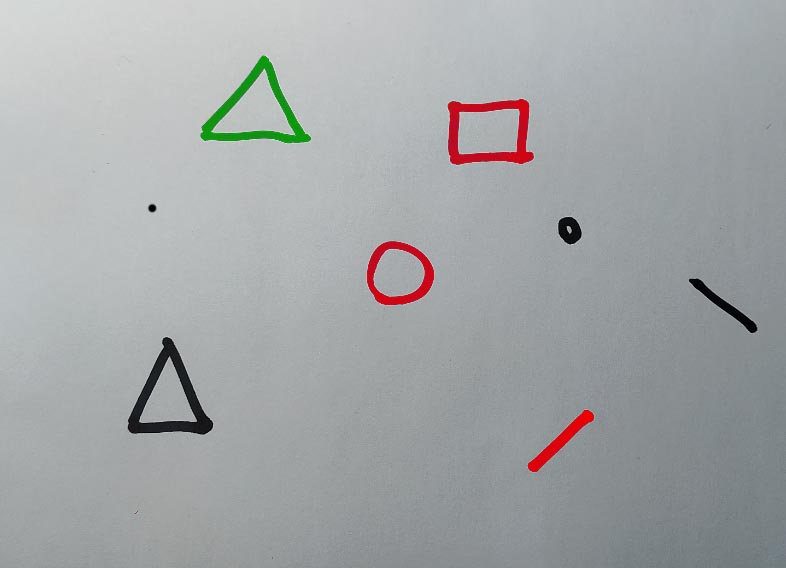
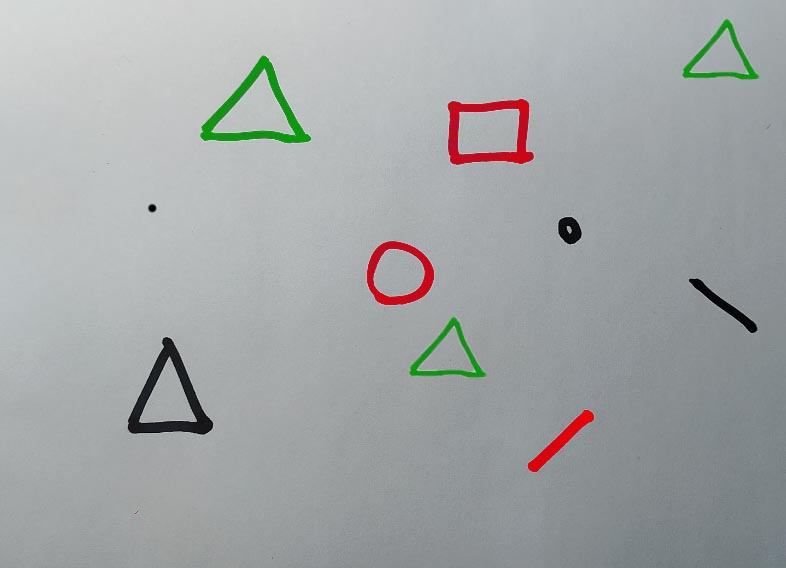
grid detection, sound playback

Changed region(s): [[0.855, 0.0299, 0.9771, 0.1496], [0.5191, 0.5687, 0.6107, 0.6884]]

diff --git a/imageProcessing.py b/imageProcessing.py
@@ -1,0 +1,103 @@
+import numpy as np
+import cv2
+from shapeDetector import Shape
+from shapeDetector import ShapeType
+import winsound
+
+class ImageProcessing:
+               
+
+    def __init__(self, xSegments = 6):
+
+        self.xSegments = xSegments
+        self.currentSegment = 0
+        self.currentX = 0        
+
+    def processImage(self, image):
+        self.image = np.copy(image)        
+        self.width = self.image.shape[:2][1]
+        self.height = self.image.shape[:2][0]
+
+        self.shapes = []
+
+        kernel = cv2.getStructuringElement(cv2.MORPH_RECT,(3,3))
+        grayscaleImage = cv2.bitwise_not(cv2.cvtColor(image, cv2.COLOR_BGR2GRAY))
+        _, self.thresholdImage = cv2.threshold(grayscaleImage, 150, 255, cv2.THRESH_BINARY)
+        self.thresholdImage = cv2.morphologyEx(self.thresholdImage,cv2.MORPH_CLOSE, kernel)
+
+        self.addDetectedShapes(self.thresholdImage)
+        self.detectGrid()
+
+
+    def addDetectedShapes(self, processedImage):
+        contours, _ = cv2.findContours(processedImage, cv2.RETR_EXTERNAL, cv2.CHAIN_APPROX_SIMPLE)        
+        for cnt in contours:
+            self.shapes.append(Shape(cnt))
+
+    def detectGrid(self):
+        bottomRight = (0,0)
+        topLeft = (self.width-1, self.height-1)
+
+        for shape in self.shapes:
+            if shape.shapeType == ShapeType.TRIANGLE:                
+                if(shape.x < topLeft[0]):
+                    topLeft = (shape.x, topLeft[1])
+                
+                if(shape.y < topLeft[1]):
+                    topLeft = (topLeft[0], shape.y)
+
+                if(shape.x > bottomRight[0]):
+                    bottomRight = (shape.x, bottomRight[1])
+
+                if(shape.y > bottomRight[1]):
+                    bottomRight = (bottomRight[0], shape.y)
+
+        if(topLeft == bottomRight):
+            topLeft = (0,0)
+            bottomRight = (ip.width-1, ip.height-1)
+
+        self.topLeft = topLeft
+        self.bottomRight = bottomRight
+        
+        self.cellHeight = round((bottomRight[1] - topLeft[1]) / 10)
+        self.cellWidth = round((bottomRight[0] - topLeft[0]) / self.xSegments)
+
+    def drawGrid(self):                
+        for x in range(self.topLeft[0], self.bottomRight[0], self.cellWidth):
+            cv2.line(self.image, (x, self.topLeft[1]), (x, self.bottomRight[1]), (0))
+        for y in range(self.topLeft[1], self.bottomRight[1], self.cellHeight):
+            cv2.line(self.image, (self.topLeft[0], y), (self.bottomRight[0], y), (0))    
+
+        for shape in self.shapes:
+            shape.draw(self.image)
+            if self.isShapeActive(shape):
+                shape.drawActive(self.image)
+        cv2.line(self.image, (self.currentX, self.topLeft[1]), (self.currentX, self.bottomRight[1]), (0), 3)
+    
+
+    def isShapeActive(self,shape):
+        yTop = self.topLeft[1]
+        yBottom = self.bottomRight[1]
+
+        return shape.x >= self.currentX - self.cellWidth/2 and shape.x < self.currentX+self.cellWidth/2 and shape.y > yTop and shape.y < yBottom
+    
+
+    def nextSegment(self):
+        self.currentX = self.topLeft[0] + self.currentSegment * self.cellWidth
+        self.currentSegment = (self.currentSegment + 1) % (self.xSegments + 1)
+    
+
+    def getActiveShapes(self):
+        """gibt alle shapes die im bereich des aktuellen segments liegen"""
+        activeShapes = []
+
+        for shape in self.shapes:
+            if self.isShapeActive(shape):
+                activeShapes.append(shape)
+
+        return activeShapes
+
+
+    def getRelativeShapePosition(self,shape):
+        """relative position im grid-bereich zwischen 0 und 1"""
+        return (shape.y - self.topLeft[1]) / (self.bottomRight[1] - self.topLeft[1])

diff --git a/shapeDetector.py b/shapeDetector.py
@@ -1,0 +1,76 @@
+import numpy as np
+import cv2
+from enum import Enum
+
+
+class ShapeType(Enum):
+    NONE = 1
+    LINE = 2
+    TRIANGLE = 3
+    RECTANGLE = 4
+    CIRCLE = 5
+
+class Shape:
+    
+    boundsColor = (0,255,255)
+    centerMarkerColor = (0,255,0)
+    contourColor = (0,255,0)
+    textColor = (0,0,0)
+    activeColor = (255,255,0)
+    
+    def __init__(self, contour):
+        self.contour = contour
+        self.approx = cv2.approxPolyDP(contour, 0.05 * cv2.arcLength(contour, True), True)
+        self.corners = len(self.approx)
+        self.area = round(cv2.contourArea(self.approx))
+        self.boundingRect = cv2.boundingRect(self.approx)
+
+        M = cv2.moments(contour)
+        if M["m00"] == 0:
+            self.x = 0
+            self.y = 0
+        else: 
+            self.x = int(M["m10"] / M["m00"])
+            self.y = int(M["m01"] / M["m00"])
+
+
+        if self.corners == 0 or self.corners == 1:
+            self.shapeType = ShapeType.NONE
+        elif self.corners == 2:
+            self.shapeType = ShapeType.LINE
+        elif self.corners == 3:
+            self.shapeType = ShapeType.TRIANGLE
+        elif self.corners == 4:
+            self.shapeType = ShapeType.RECTANGLE
+        else:
+            self.shapeType = ShapeType.CIRCLE
+
+    def getShapeName(self):
+        t = self.shapeType
+
+        if t == ShapeType.NONE:
+            return "?"
+        elif t == ShapeType.LINE:
+            return "line"
+        elif t == ShapeType.TRIANGLE:
+            return "triangle"
+        elif t == ShapeType.RECTANGLE:
+            return "rectangle"
+        elif t == ShapeType.CIRCLE:
+            return "circle"
+
+   
+
+    def drawActive(self, img):
+        r = self.boundingRect
+        cv2.rectangle(img, (r[0], r[1]), (r[0]+r[2], r[1]+r[3]), Shape.activeColor, 2)
+
+    def draw(self, img): 
+        cv2.drawContours(img, [self.approx], 0, Shape.contourColor, 2)
+        cv2.drawMarker(img, (self.x, self.y), Shape.centerMarkerColor, cv2.MARKER_CROSS)
+        r = self.boundingRect
+        cv2.rectangle(img, (r[0], r[1]), (r[0]+r[2], r[1]+r[3]), Shape.boundsColor)
+
+        #cv2.putText(img, ""+str(self.corners)+"/"+str(self.area)+"px", (self.x,self.y), cv2.FONT_HERSHEY_PLAIN, 1.2, Shape.textColor, 2)
+        cv2.putText(img, ""+self.getShapeName(), (r[0],r[1]), cv2.FONT_HERSHEY_PLAIN, 1.2, Shape.textColor, 2)
+

diff --git a/program.py b/program.py
@@ -1,35 +1,44 @@
 import numpy as np
 import cv2
+from shapeDetector import Shape
+from shapeDetector import ShapeType
+from imageProcessing import ImageProcessing
+import winsound
 
 
-originalImage = cv2.imread("test3.jpg")
-height, width = originalImage.shape[:2]
-grayscaleImage = cv2.bitwise_not(cv2.cvtColor(originalImage, cv2.COLOR_BGR2GRAY))
 #contoursImage = np.ones(shape=(height,width,3), dtype=np.uint8) * 255
 
 
-kernel = cv2.getStructuringElement(cv2.MORPH_RECT,(3,3))
 
-grayscaleImage = cv2.GaussianBlur(grayscaleImage, (3,3), 0)
-_, threshold = cv2.threshold(grayscaleImage, 150, 255, cv2.THRESH_BINARY)
 
-opening = cv2.morphologyEx(threshold,cv2.MORPH_CLOSE, kernel)
+minFrequency = 500
+maxFrequency = 10000
+duration = 200
+timePerSegment = 200
 
-contours, _ = cv2.findContours(opening, cv2.RETR_EXTERNAL, cv2.CHAIN_APPROX_SIMPLE, )
+imageHeight = 300
 
-font = cv2.FONT_HERSHEY_PLAIN
+originalImage = cv2.imread("test3.jpg")
+originalSize = originalImage.shape[:2]
+ip = ImageProcessing()
 
-for cnt in contours:
-    approx = cv2.approxPolyDP(cnt, 0.05 * cv2.arcLength(cnt, True), True)
-    area = cv2.contourArea(cnt)
-    x = approx.ravel()[0]
-    y = approx.ravel()[1] -10
 
-    cv2.drawContours(originalImage, [approx], 0, (0,255,0), 2)
-    cv2.putText(originalImage, ""+str(len(approx))+"/"+str(round(area))+"px", (x,y), font, 1.2,(0), 2)
+while True:
 
-cv2.imshow("image", originalImage)
-cv2.imshow("opening", opening)
-cv2.imshow("grayscale", grayscaleImage)
-cv2.waitKey(0)
+    resizedImage = cv2.resize(originalImage, (round(imageHeight / originalSize[0] * originalSize[1]), imageHeight))
+    ip.processImage(resizedImage)
+    if cv2.waitKey(timePerSegment) != -1:
+        break
+
+    ip.drawGrid()
+    ip.nextSegment()
+
+    for shape in ip.getActiveShapes():
+       winsound.Beep(int(minFrequency + ip.getRelativeShapePosition(shape) * (maxFrequency - minFrequency)), duration)   
+
+    cv2.imshow("image", ip.image)
+    cv2.imshow("threshold", ip.thresholdImage)
+    #cv2.imshow("grayscale", grayscaleImage)
+ 
+
 cv2.destroyAllWindows()
